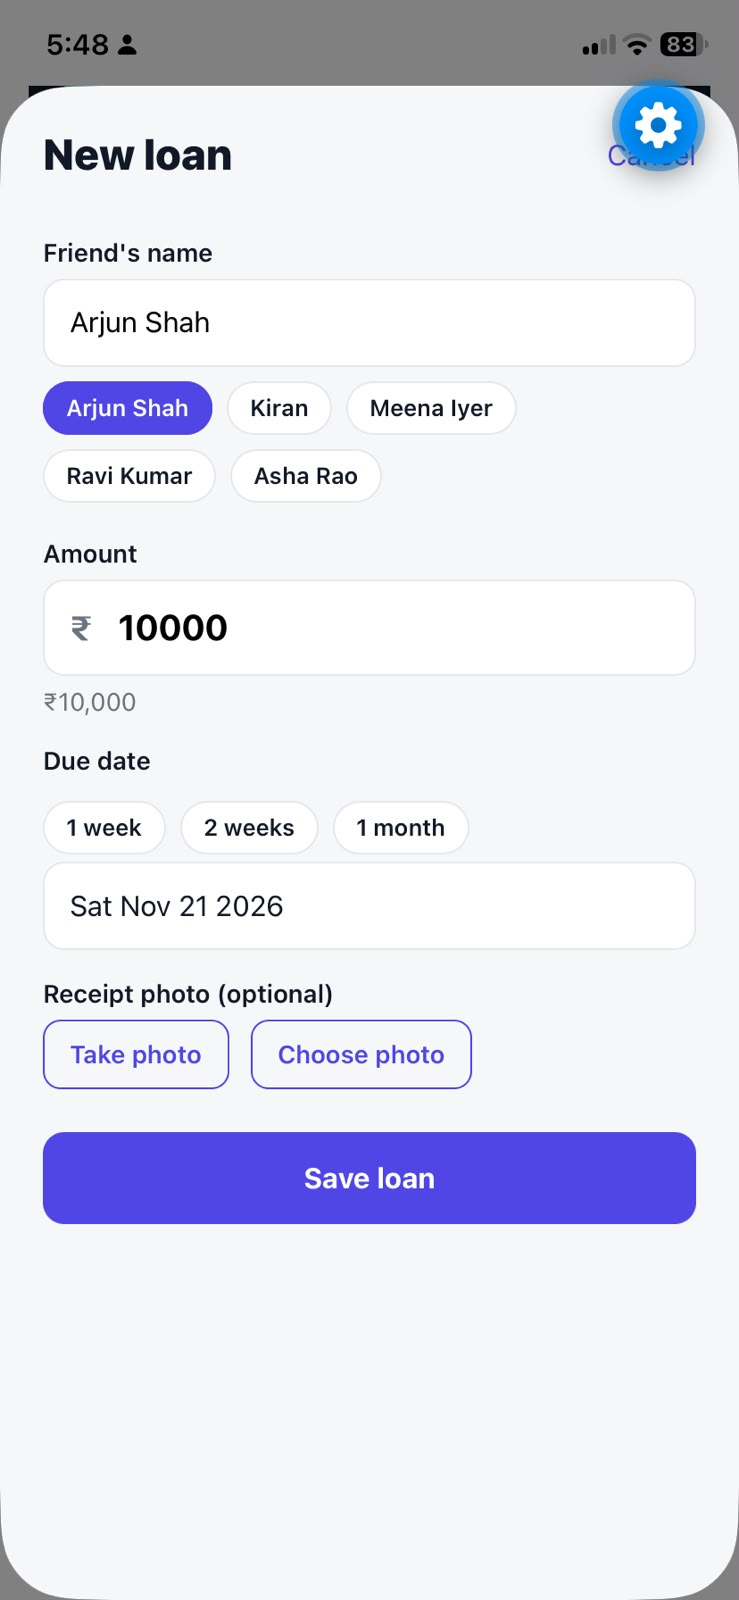
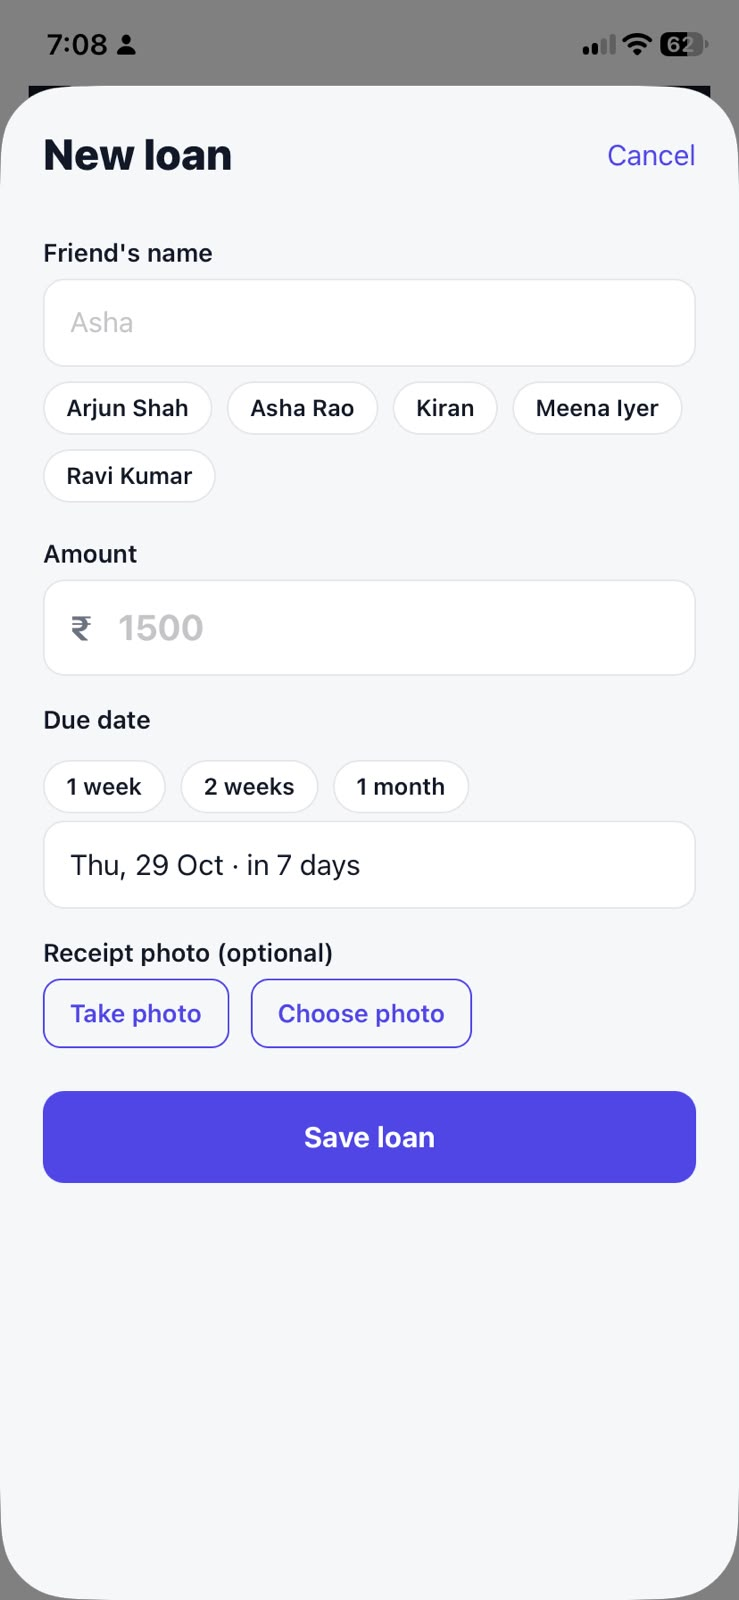
README: new screenshots; fix spaced-out placeholders on iOS
iOS reuses native text inputs, so the OTP box's wide letter spacing could
leak into other inputs (placeholders showed as 'S e a r c h'). Every input
now sets letterSpacing: 0. Also a gap between search and the Friends list.

diff --git a/app/src/HomeScreen.tsx b/app/src/HomeScreen.tsx
@@ -316,11 +316,11 @@ const styles = StyleSheet.create({
   segmentActive: { backgroundColor: colors.card },
   segmentText: { fontWeight: '700', color: colors.muted },
   segmentTextActive: { color: colors.ink },
-  search: { flexDirection: 'row', alignItems: 'center', backgroundColor: colors.card, borderRadius: 12, borderWidth: 1, borderColor: colors.line, paddingHorizontal: 12, marginTop: 12 },
+  search: { flexDirection: 'row', alignItems: 'center', backgroundColor: colors.card, borderRadius: 12, borderWidth: 1, borderColor: colors.line, paddingHorizontal: 12, marginTop: 12, marginBottom: 12 },
   searchIcon: { fontSize: 18, color: colors.muted, marginRight: 6 },
-  searchInput: { flex: 1, paddingVertical: 11, fontSize: 15 },
+  searchInput: { flex: 1, paddingVertical: 11, fontSize: 15, letterSpacing: 0 },
   clear: { color: colors.muted, fontSize: 14, padding: 4 },
-  tabs: { flexDirection: 'row', gap: 8, marginTop: 12, marginBottom: 12 },
+  tabs: { flexDirection: 'row', gap: 8, marginBottom: 12 },
   tab: { paddingVertical: 8, paddingHorizontal: 14, borderRadius: 20, backgroundColor: colors.card, borderWidth: 1, borderColor: colors.line },
   tabActive: { backgroundColor: colors.ink, borderColor: colors.ink },
   tabText: { color: colors.ink, fontWeight: '600', fontSize: 13 },

diff --git a/app/src/AddLoanSheet.tsx b/app/src/AddLoanSheet.tsx
@@ -166,11 +166,11 @@ const styles = StyleSheet.create({
   title: { fontSize: 24, fontWeight: '800', color: colors.ink },
   cancel: { color: colors.brand, fontSize: 16 },
   label: { fontSize: 14, fontWeight: '600', color: colors.ink, marginTop: 16, marginBottom: 6 },
-  input: { borderWidth: 1, borderColor: colors.line, borderRadius: 12, padding: 14, fontSize: 16, backgroundColor: '#fff' },
+  input: { borderWidth: 1, borderColor: colors.line, borderRadius: 12, padding: 14, fontSize: 16, backgroundColor: '#fff', letterSpacing: 0 },
   inputText: { fontSize: 16, color: colors.ink },
   amountRow: { flexDirection: 'row', alignItems: 'center', borderWidth: 1, borderColor: colors.line, borderRadius: 12, backgroundColor: '#fff' },
   rupee: { paddingLeft: 14, fontSize: 20, fontWeight: '700', color: colors.muted },
-  amountInput: { flex: 1, padding: 14, fontSize: 20, fontWeight: '700' },
+  amountInput: { flex: 1, padding: 14, fontSize: 20, fontWeight: '700', letterSpacing: 0 },
   preview: { color: colors.muted, marginTop: 6 },
   chips: { flexDirection: 'row', flexWrap: 'wrap', gap: 8, marginTop: 8, marginBottom: 4 },
   chip: { paddingVertical: 6, paddingHorizontal: 12, borderRadius: 16, backgroundColor: '#fff', borderWidth: 1, borderColor: colors.line },

diff --git a/app/src/LoanDetailSheet.tsx b/app/src/LoanDetailSheet.tsx
@@ -243,7 +243,7 @@ const styles = StyleSheet.create({
   receipt: { width: '100%', height: 260, borderRadius: 12, marginTop: 8, backgroundColor: '#F3F4F6' },
   amountRow: { flexDirection: 'row', alignItems: 'center', borderWidth: 1, borderColor: colors.line, borderRadius: 12, backgroundColor: '#fff' },
   rupee: { paddingLeft: 14, fontSize: 20, fontWeight: '700', color: colors.muted },
-  amountInput: { flex: 1, padding: 14, fontSize: 20, fontWeight: '700' },
+  amountInput: { flex: 1, padding: 14, fontSize: 20, fontWeight: '700', letterSpacing: 0 },
   chips: { flexDirection: 'row', flexWrap: 'wrap', gap: 8, marginTop: 10 },
   chip: { paddingVertical: 6, paddingHorizontal: 12, borderRadius: 16, backgroundColor: colors.brandSoft },
   chipText: { color: colors.brand, fontWeight: '700', fontSize: 13 },

diff --git a/app/src/LoginScreen.tsx b/app/src/LoginScreen.tsx
@@ -133,7 +133,7 @@ const styles = StyleSheet.create({
   label: { fontSize: 14, color: colors.ink, marginBottom: 8, fontWeight: '600' },
   phoneRow: { flexDirection: 'row', borderWidth: 1, borderColor: colors.line, borderRadius: 12, backgroundColor: '#fff', overflow: 'hidden' },
   prefix: { paddingHorizontal: 14, paddingVertical: 14, fontSize: 18, color: colors.muted, backgroundColor: '#F3F4F6', fontWeight: '600' },
-  phoneInput: { flex: 1, padding: 14, fontSize: 18 },
+  phoneInput: { flex: 1, padding: 14, fontSize: 18, letterSpacing: 0 },
   input: { borderWidth: 1, borderColor: colors.line, borderRadius: 12, padding: 14, fontSize: 18, backgroundColor: '#fff' },
   code: { letterSpacing: 10, textAlign: 'center', fontSize: 26 },
   hint: { fontSize: 12, color: colors.muted, marginTop: 8 },

diff --git a/app/src/ProfileSheet.tsx b/app/src/ProfileSheet.tsx
@@ -119,7 +119,7 @@ const styles = StyleSheet.create({
   card: { backgroundColor: colors.card, borderRadius: 16, padding: 16, borderWidth: 1, borderColor: colors.line, marginTop: 12 },
   cardTitle: { fontSize: 15, fontWeight: '700', color: colors.ink, marginBottom: 4 },
   help: { color: colors.muted, fontSize: 13, lineHeight: 18 },
-  input: { borderWidth: 1, borderColor: colors.line, borderRadius: 12, padding: 14, fontSize: 16, backgroundColor: '#fff', marginTop: 12 },
+  input: { borderWidth: 1, borderColor: colors.line, borderRadius: 12, padding: 14, fontSize: 16, backgroundColor: '#fff', marginTop: 12, letterSpacing: 0 },
   msg: { marginTop: 8 },
   switchRow: { flexDirection: 'row', alignItems: 'center', gap: 12 },
 })

diff --git a/README.md b/README.md
@@ -9,10 +9,9 @@ Track money you've lent to friends: who owes you, how much, and who's late.
 - **Demo video:** _link here_
 
 <p>
-  <img src="docs/screenshots/home.jpg" width="200" alt="Home: summary card, filters, overdue loans in red, due-soon in amber">
-  <img src="docs/screenshots/add-loan.jpg" width="200" alt="Add a loan: recent friends, amount preview, due-date presets, receipt photo">
-  <img src="docs/screenshots/login.jpg" width="200" alt="Login with phone number">
-  <img src="docs/screenshots/otp.jpg" width="200" alt="One-time code with resend countdown">
+  <img src="docs/screenshots/home.jpg" width="230" alt="Home: what you'll get back, status pills, a part-paid loan with a progress bar">
+  <img src="docs/screenshots/friends.jpg" width="230" alt="Friends: who owes you the most, with overdue counts and settled friends">
+  <img src="docs/screenshots/add-loan.jpg" width="230" alt="Add a loan: recent friends, rupee amount, due-date presets, receipt photo">
 </p>
 
 ## Run it
